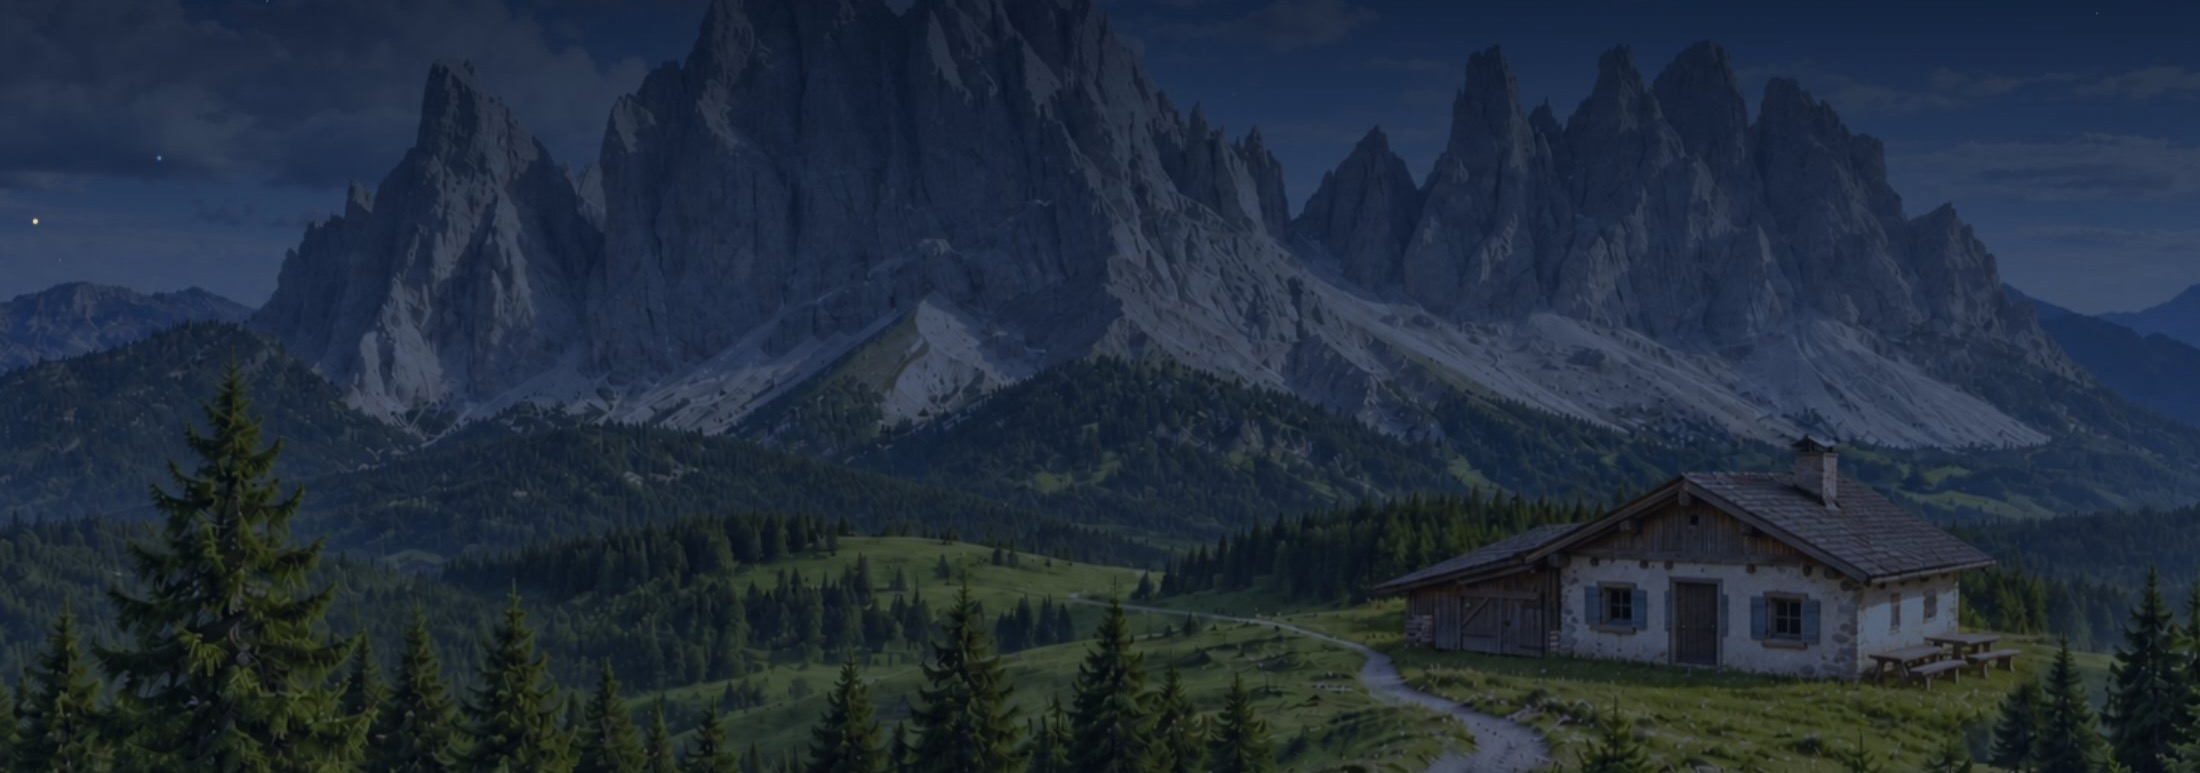
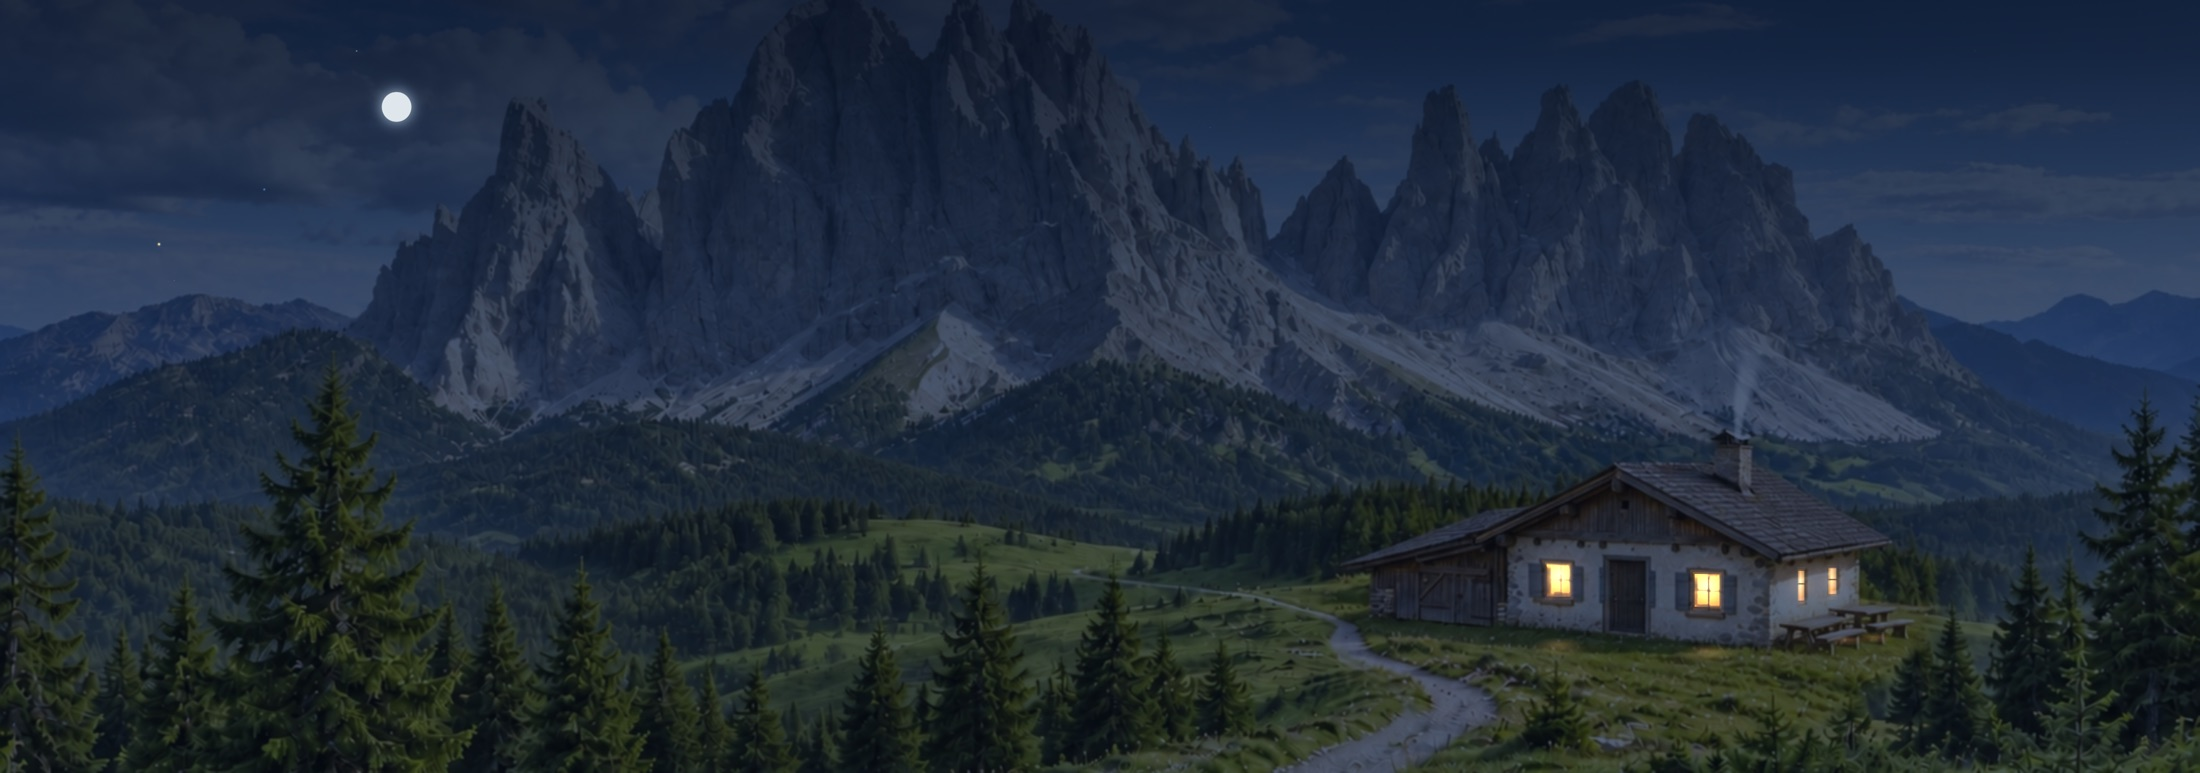
Refresh the help page scene images
Recapture the four moments of the day, the four winter views and the header band with the current scene, at the instants of the originals: the hut windows are now lit at night and the summer chimney smokes. The summer shots move from PNG to JPEG.

diff --git a/site/help.html b/site/help.html
@@ -280,10 +280,10 @@
         <p data-lang="it">La luce della scena e il cielo astronomico seguono data, ora e posizione. Una leggera foschia anima il paesaggio, che cambia anche con le stagioni.</p><p data-lang="en">The scene’s light and astronomical sky follow date, time and location. A subtle mist animates the landscape, which also changes with the seasons.</p>
       </div></div>
       <div class="scene-grid">
-        <figure><div class="shot"><img src="/assets/help/artistic-dawn.png" alt="Il paesaggio montano all’alba"></div><figcaption><strong data-lang="it">Alba</strong><strong data-lang="en">Dawn</strong><span data-lang="it">Il Sole affiora e la scena si accende gradualmente.</span><span data-lang="en">The Sun rises and the scene gradually comes to life.</span></figcaption></figure>
-        <figure><div class="shot"><img src="/assets/help/artistic-day.png" alt="Il paesaggio montano durante il giorno"></div><figcaption><strong data-lang="it">Giorno</strong><strong data-lang="en">Day</strong><span data-lang="it">Pascolo illuminato, cielo chiaro e stelle nascoste dalla luce.</span><span data-lang="en">A sunlit pasture, bright sky and stars hidden by daylight.</span></figcaption></figure>
-        <figure><div class="shot"><img src="/assets/help/artistic-sunset.png" alt="Il paesaggio montano al tramonto"></div><figcaption><strong data-lang="it">Tramonto</strong><strong data-lang="en">Sunset</strong><span data-lang="it">La luce si scalda e i primi oggetti celesti emergono.</span><span data-lang="en">The light warms and the first celestial objects appear.</span></figcaption></figure>
-        <figure><div class="shot"><img src="/assets/help/artistic-night.png" alt="Il paesaggio montano di notte"></div><figcaption><strong data-lang="it">Notte</strong><strong data-lang="en">Night</strong><span data-lang="it">Stelle, pianeti e Luna diventano protagonisti.</span><span data-lang="en">Stars, planets and the Moon take centre stage.</span></figcaption></figure>
+        <figure><div class="shot"><img src="/assets/help/artistic-dawn.jpg" alt="Il paesaggio montano all’alba"></div><figcaption><strong data-lang="it">Alba</strong><strong data-lang="en">Dawn</strong><span data-lang="it">Il Sole affiora e la scena si accende gradualmente.</span><span data-lang="en">The Sun rises and the scene gradually comes to life.</span></figcaption></figure>
+        <figure><div class="shot"><img src="/assets/help/artistic-day.jpg" alt="Il paesaggio montano durante il giorno"></div><figcaption><strong data-lang="it">Giorno</strong><strong data-lang="en">Day</strong><span data-lang="it">Pascolo illuminato, cielo chiaro e stelle nascoste dalla luce.</span><span data-lang="en">A sunlit pasture, bright sky and stars hidden by daylight.</span></figcaption></figure>
+        <figure><div class="shot"><img src="/assets/help/artistic-sunset.jpg" alt="Il paesaggio montano al tramonto"></div><figcaption><strong data-lang="it">Tramonto</strong><strong data-lang="en">Sunset</strong><span data-lang="it">La luce si scalda e i primi oggetti celesti emergono.</span><span data-lang="en">The light warms and the first celestial objects appear.</span></figcaption></figure>
+        <figure><div class="shot"><img src="/assets/help/artistic-night.jpg" alt="Il paesaggio montano di notte"></div><figcaption><strong data-lang="it">Notte</strong><strong data-lang="en">Night</strong><span data-lang="it">Stelle, pianeti e Luna diventano protagonisti.</span><span data-lang="en">Stars, planets and the Moon take centre stage.</span></figcaption></figure>
       </div>
       <div class="season-head"><span class="section-no" data-lang="it">INVERNO</span><span class="section-no" data-lang="en">WINTER</span><div>
         <h3 data-lang="it">E un inverno sulle Odle</h3><h3 data-lang="en">And a winter in the Odle</h3>

diff --git a/site/release/help.html b/site/release/help.html
@@ -280,10 +280,10 @@
         <p data-lang="it">La luce della scena e il cielo astronomico seguono data, ora e posizione. Una leggera foschia anima il paesaggio, che cambia anche con le stagioni.</p><p data-lang="en">The scene’s light and astronomical sky follow date, time and location. A subtle mist animates the landscape, which also changes with the seasons.</p>
       </div></div>
       <div class="scene-grid">
-        <figure><div class="shot"><img src="/assets/help/artistic-dawn.png" alt="Il paesaggio montano all’alba"></div><figcaption><strong data-lang="it">Alba</strong><strong data-lang="en">Dawn</strong><span data-lang="it">Il Sole affiora e la scena si accende gradualmente.</span><span data-lang="en">The Sun rises and the scene gradually comes to life.</span></figcaption></figure>
-        <figure><div class="shot"><img src="/assets/help/artistic-day.png" alt="Il paesaggio montano durante il giorno"></div><figcaption><strong data-lang="it">Giorno</strong><strong data-lang="en">Day</strong><span data-lang="it">Pascolo illuminato, cielo chiaro e stelle nascoste dalla luce.</span><span data-lang="en">A sunlit pasture, bright sky and stars hidden by daylight.</span></figcaption></figure>
-        <figure><div class="shot"><img src="/assets/help/artistic-sunset.png" alt="Il paesaggio montano al tramonto"></div><figcaption><strong data-lang="it">Tramonto</strong><strong data-lang="en">Sunset</strong><span data-lang="it">La luce si scalda e i primi oggetti celesti emergono.</span><span data-lang="en">The light warms and the first celestial objects appear.</span></figcaption></figure>
-        <figure><div class="shot"><img src="/assets/help/artistic-night.png" alt="Il paesaggio montano di notte"></div><figcaption><strong data-lang="it">Notte</strong><strong data-lang="en">Night</strong><span data-lang="it">Stelle, pianeti e Luna diventano protagonisti.</span><span data-lang="en">Stars, planets and the Moon take centre stage.</span></figcaption></figure>
+        <figure><div class="shot"><img src="/assets/help/artistic-dawn.jpg" alt="Il paesaggio montano all’alba"></div><figcaption><strong data-lang="it">Alba</strong><strong data-lang="en">Dawn</strong><span data-lang="it">Il Sole affiora e la scena si accende gradualmente.</span><span data-lang="en">The Sun rises and the scene gradually comes to life.</span></figcaption></figure>
+        <figure><div class="shot"><img src="/assets/help/artistic-day.jpg" alt="Il paesaggio montano durante il giorno"></div><figcaption><strong data-lang="it">Giorno</strong><strong data-lang="en">Day</strong><span data-lang="it">Pascolo illuminato, cielo chiaro e stelle nascoste dalla luce.</span><span data-lang="en">A sunlit pasture, bright sky and stars hidden by daylight.</span></figcaption></figure>
+        <figure><div class="shot"><img src="/assets/help/artistic-sunset.jpg" alt="Il paesaggio montano al tramonto"></div><figcaption><strong data-lang="it">Tramonto</strong><strong data-lang="en">Sunset</strong><span data-lang="it">La luce si scalda e i primi oggetti celesti emergono.</span><span data-lang="en">The light warms and the first celestial objects appear.</span></figcaption></figure>
+        <figure><div class="shot"><img src="/assets/help/artistic-night.jpg" alt="Il paesaggio montano di notte"></div><figcaption><strong data-lang="it">Notte</strong><strong data-lang="en">Night</strong><span data-lang="it">Stelle, pianeti e Luna diventano protagonisti.</span><span data-lang="en">Stars, planets and the Moon take centre stage.</span></figcaption></figure>
       </div>
       <div class="season-head"><span class="section-no" data-lang="it">INVERNO</span><span class="section-no" data-lang="en">WINTER</span><div>
         <h3 data-lang="it">E un inverno sulle Odle</h3><h3 data-lang="en">And a winter in the Odle</h3>
